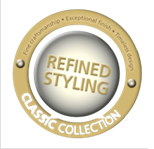
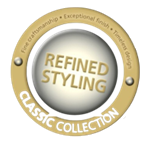
fix: remove grey border outline and drop shadow around tribute graphics

diff --git a/src/components/price-cards/templates/Card6x6.tsx b/src/components/price-cards/templates/Card6x6.tsx
@@ -274,26 +274,26 @@ export const Card6x6: React.FC<Card6x6Props> = ({
           </div>
         </div>
 
-        {/* Right Side: TRIBUTES Graphic or REFINED STYLING Medallion from misc bucket */}
+        {/* Right Side: TRIBUTES Graphic or REFINED STYLING Medallion */}
         {rightGraphic !== 'none' && (
-          <div className="w-[195px] pl-3.5 border-l border-slate-200 flex flex-col items-center justify-center shrink-0">
+          <div className="w-[195px] pl-3 flex flex-col items-center justify-center shrink-0">
             {rightGraphic === 'refined-styling' ? (
               <img
-                src={`${SUPABASE_MISC_BASE}/Refined%20Styling.png`}
+                src="/misc/Refined Styling.png"
                 onError={(e) => {
-                  e.currentTarget.src = '/misc/Refined Styling.png';
+                  e.currentTarget.src = `${SUPABASE_MISC_BASE}/Refined%20Styling.png`;
                 }}
                 alt="Refined Styling Classic Collection"
-                className="w-full max-w-[185px] max-h-[175px] h-auto object-contain drop-shadow-sm"
+                className="w-full max-w-[185px] max-h-[175px] h-auto object-contain"
               />
             ) : (
               <img
-                src={`${SUPABASE_MISC_BASE}/Tributes.png`}
+                src="/misc/Tributes.png"
                 onError={(e) => {
-                  e.currentTarget.src = '/misc/Tributes.png';
+                  e.currentTarget.src = `${SUPABASE_MISC_BASE}/Tributes.png`;
                 }}
                 alt="Tribute Option Categories"
-                className="w-full max-w-[185px] max-h-[175px] h-auto object-contain drop-shadow-sm"
+                className="w-full max-w-[185px] max-h-[175px] h-auto object-contain"
               />
             )}
           </div>

diff --git a/src/components/price-cards/templates/Card11x17.tsx b/src/components/price-cards/templates/Card11x17.tsx
@@ -267,18 +267,18 @@ export const Card11x17: React.FC<Card11x17Props> = ({
 
           {/* Right Graphic in Left Box */}
           {rightGraphic !== 'none' && (
-            <div className="w-[340px] pl-8 border-l border-slate-200 flex flex-col items-center justify-center shrink-0">
+            <div className="w-[340px] pl-4 flex flex-col items-center justify-center shrink-0">
               {rightGraphic === 'refined-styling' ? (
                 <img
-                  src={`${SUPABASE_MISC_BASE}/Refined%20Styling.png`}
-                  onError={(e) => { e.currentTarget.src = '/misc/Refined Styling.png'; }}
+                  src="/misc/Refined Styling.png"
+                  onError={(e) => { e.currentTarget.src = `${SUPABASE_MISC_BASE}/Refined%20Styling.png`; }}
                   alt="Refined Styling"
-                  className="w-full max-w-[315px] max-h-[380px] h-auto object-contain drop-shadow"
+                  className="w-full max-w-[315px] max-h-[380px] h-auto object-contain"
                 />
               ) : (
                 <img
-                  src={`${SUPABASE_MISC_BASE}/Tributes.png`}
-                  onError={(e) => { e.currentTarget.src = '/misc/Tributes.png'; }}
+                  src="/misc/Tributes.png"
+                  onError={(e) => { e.currentTarget.src = `${SUPABASE_MISC_BASE}/Tributes.png`; }}
                   alt="Tributes"
                   className="w-full max-w-[315px] max-h-[380px] h-auto object-contain"
                 />

diff --git a/src/components/price-cards/templates/Card8x11.tsx b/src/components/price-cards/templates/Card8x11.tsx
@@ -267,18 +267,18 @@ export const Card8x11: React.FC<Card8x11Props> = ({
 
           {/* Right Graphic in Left Box */}
           {rightGraphic !== 'none' && (
-            <div className="w-[230px] pl-5 border-l border-slate-200 flex flex-col items-center justify-center shrink-0">
+            <div className="w-[230px] pl-3 flex flex-col items-center justify-center shrink-0">
               {rightGraphic === 'refined-styling' ? (
                 <img
-                  src={`${SUPABASE_MISC_BASE}/Refined%20Styling.png`}
-                  onError={(e) => { e.currentTarget.src = '/misc/Refined Styling.png'; }}
+                  src="/misc/Refined Styling.png"
+                  onError={(e) => { e.currentTarget.src = `${SUPABASE_MISC_BASE}/Refined%20Styling.png`; }}
                   alt="Refined Styling"
-                  className="w-full max-w-[215px] max-h-[260px] h-auto object-contain drop-shadow"
+                  className="w-full max-w-[215px] max-h-[260px] h-auto object-contain"
                 />
               ) : (
                 <img
-                  src={`${SUPABASE_MISC_BASE}/Tributes.png`}
-                  onError={(e) => { e.currentTarget.src = '/misc/Tributes.png'; }}
+                  src="/misc/Tributes.png"
+                  onError={(e) => { e.currentTarget.src = `${SUPABASE_MISC_BASE}/Tributes.png`; }}
                   alt="Tributes"
                   className="w-full max-w-[215px] max-h-[260px] h-auto object-contain"
                 />
